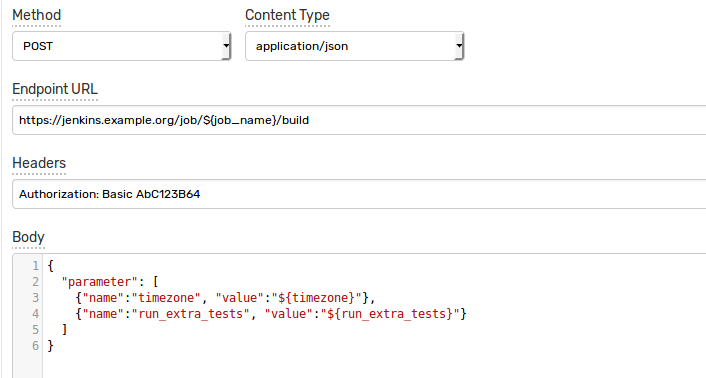
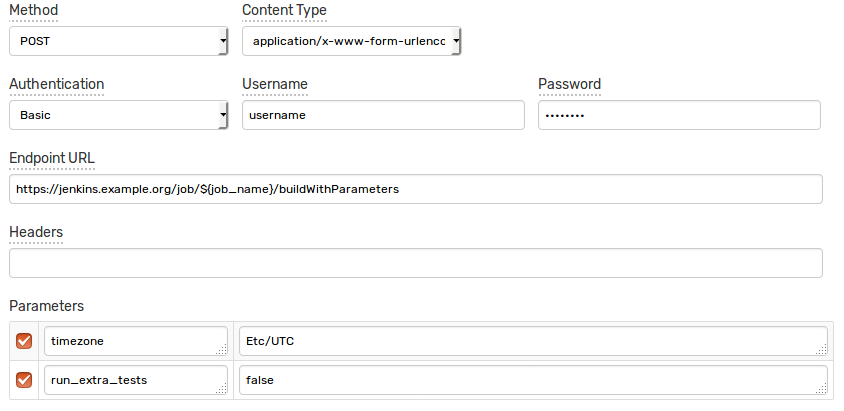
Updated custom-jenkins.md (#331)
* added authorization instructions in custom-jenkins.md

* undone token instructions deletion

* lang fix

diff --git a/rule-engine/notifications/custom-jenkins.md b/rule-engine/notifications/custom-jenkins.md
@@ -4,11 +4,16 @@
 
 The following example demonstrates how to trigger a [Jenkins](https://jenkins.io/) job using a [`CUSTOM`](custom.md) web notification in the ATSD rule engine.
 
-The integration relies on the [Jenkins API](https://wiki.jenkins.io/display/JENKINS/Remote+access+API) `'Job with parameters'` method for triggering a new build job.
+The integration relies on the following [Jenkins API](https://wiki.jenkins.io/display/JENKINS/Remote+access+API) methods:
+
+* `'Job with parameters'` method.
+* `'Jobs without parameters'` method.
 
 ## Configuration
 
-Create a new `CUSTOM` web notification from scratch or import the [template](resources/custom-jenkins-notification.xml) used in this example. To import the XML template file, open the **Alerts > Web Notifications** page, select **Import** in the multi-action button located below the table and follow the prompts.
+Create a new `CUSTOM` web notification from scratch or import the [template](resources/custom-jenkins-notification.xml) used in this example. 
+
+To import the XML template file, open the **Alerts > Web Notifications** page, select **Import** in the multi-action button located below the table and follow the prompts.
 
 To create a new notification, open the **Alerts > Web Notifications** page and click **Create**.
 
@@ -18,18 +23,22 @@ Enter a name and specify the following parameters:
 
 | **Name** | **Value** |
 | :--- | :--- |
-| Method | `POST`  |
-| Content Type | `application/json` |
-| Endpoint URL | `https://jenkins.example.org/job/${job_name}/build` |
-| Headers | `Authorization: Basic AbC123B64` |
+| Method | `POST` |
+| Content Type | `application/x-www-form-urlencoded` |
+| Authentication | `Basic` |
+| Username | `<JENKINS_USER_NAME>` |
+| Password | `<JENKINS_USER_TOKEN>` |
+| Endpoint URL | `https://jenkins.example.org/job/${job_name}/buildWithParameters` |
 
-Replace `jenkins.example.org` in the `Endpoint URL` parameter with the actual Jenkins address.
+If the Jenkins job is not parameterized, use the `https://jenkins.example.org/job/${job_name}/build` url.
+
+Replace `jenkins.example.org` in the `Endpoint URL` parameter with the actual Jenkins address. 
 
 Keep the `${job_name}` placeholder in the URL path so that one can customize it in the rule editor. This would allow you to trigger different jobs using the same web notification.
 
-The `Authorization` header should contain authorization type `Basic` and base64-encoded credentials in the format `username:api_token`. 
+Enter the Jenkins user name into the `Username` field and the User API token into the `Password` field.
 
-The API token can be found in the Jenkins web interface on the `User Configuration` page.
+The API token can be located on the `User Configuration` page in the Jenkins web interface.
 
 ![](images/jenkins_token_1.png)
 
@@ -53,22 +62,13 @@ The parameters will be displayed if `This project is parametrized` checkbox is e
 
 ![](images/jenkins_param_build_3.png)
 
-The web notification can be configured to send a JSON document to the Jenkins server in order to pass extended parameters.
+The web notification can be configured to send a `x-www-form-urlencoded` data to the Jenkins server in order to pass extended parameters.
 
-In this case, use the `Body` field to enumerate the job parameters in a JSON document as follows:
-
-```
-{
-  "parameter": [
-    {"name":"timezone", "value":"${timezone}"},
-    {"name":"run_extra_tests", "value":"${run_extra_tests}"}
-  ]
-}
-```
-
-You can leave the `Body` field empty for non-parameterized jobs.
+In this case, add parameters names to the `Parameters` and enable their checkboxes in order to customize them in the rule editor.
 
 ![](images/jenkins_endpoint.png)
+
+Leave the `Parameters` table empty for non-parameterized jobs.
 
 ## Rule
 
@@ -102,19 +102,15 @@ Specify the same settings for **Open** and **Repeat** triggers:
 
 ![](images/jenkins_rule_notification.png)
 
-Note that these three parameters are visible in the rule editor because their placeholders are present in the `Endpoint URL` and the JSON payload.
+Note that these three parameters are visible in the rule editor because their placeholders are present in the `Endpoint URL` and `Parameters` marked as editable.
 
 When the notification is executed, all placeholders will be resolved as follows:
 
-`https://jenkins.example.org/job/atsd-api-test/build`
+`https://jenkins.example.org/job/atsd-api-test/buildWithParameters`
 
-```json
-{
-  "parameter": [
-    {"name":"timezone", "value":"Etc/UTC"},
-    {"name":"run_extra_tests", "value":"false"}
-  ]
-}
+```
+timezone=Etc/UTC
+run_extra_tests=false
 ```
 
 If the placeholder is not found, it will be substituted with an empty string.
